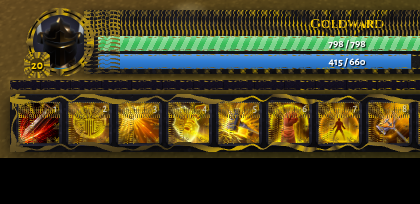
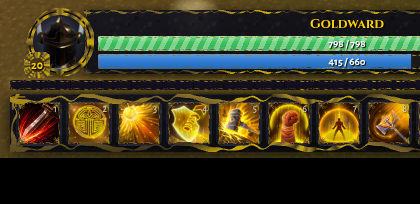
fix(ui): correct mask-repeat layer count, restore x-btn hover border
A frontend-seam-reviewer pass on the round-4 ornament changes caught two real
bugs. The 7 combined corner+edge mask-image blocks wrote mask-repeat as 5
CSS-source values, but var(--ornament-corner) itself expands to 4 layers, so
the true layer count is 8 (already matched by mask-position/mask-size); the
shorter mask-repeat list was getting cycled by the browser, giving 7 of 8
layers the wrong repeat mode. Confirmed live via getComputedStyle before and
after the fix. Also restores .x-btn's hover border, dead since its border
shorthand was dropped entirely this round instead of set to transparent like
every other converted button. Retakes the screenshots the mask-repeat bug
affected.

diff --git a/src/styles/hud.css b/src/styles/hud.css
@@ -899,8 +899,9 @@
     mask-image:
       var(--ornament-corner), var(--ornament-edge-h), var(--ornament-edge-h),
       var(--ornament-edge-v), var(--ornament-edge-v);
-    -webkit-mask-repeat: no-repeat, repeat-x, repeat-x, repeat-y, repeat-y;
-    mask-repeat: no-repeat, repeat-x, repeat-x, repeat-y, repeat-y;
+    -webkit-mask-repeat:
+      no-repeat, no-repeat, no-repeat, no-repeat, repeat-x, repeat-x, repeat-y, repeat-y;
+    mask-repeat: no-repeat, no-repeat, no-repeat, no-repeat, repeat-x, repeat-x, repeat-y, repeat-y;
     -webkit-mask-position:
       top left,
       top right,
@@ -1392,8 +1393,9 @@
     mask-image:
       var(--ornament-corner), var(--ornament-edge-h), var(--ornament-edge-h),
       var(--ornament-edge-v), var(--ornament-edge-v);
-    -webkit-mask-repeat: no-repeat, repeat-x, repeat-x, repeat-y, repeat-y;
-    mask-repeat: no-repeat, repeat-x, repeat-x, repeat-y, repeat-y;
+    -webkit-mask-repeat:
+      no-repeat, no-repeat, no-repeat, no-repeat, repeat-x, repeat-x, repeat-y, repeat-y;
+    mask-repeat: no-repeat, no-repeat, no-repeat, no-repeat, repeat-x, repeat-x, repeat-y, repeat-y;
     -webkit-mask-position:
       top left,
       top right,
@@ -1740,8 +1742,9 @@
     mask-image:
       var(--ornament-corner), var(--ornament-edge-h), var(--ornament-edge-h),
       var(--ornament-edge-v), var(--ornament-edge-v);
-    -webkit-mask-repeat: no-repeat, repeat-x, repeat-x, repeat-y, repeat-y;
-    mask-repeat: no-repeat, repeat-x, repeat-x, repeat-y, repeat-y;
+    -webkit-mask-repeat:
+      no-repeat, no-repeat, no-repeat, no-repeat, repeat-x, repeat-x, repeat-y, repeat-y;
+    mask-repeat: no-repeat, no-repeat, no-repeat, no-repeat, repeat-x, repeat-x, repeat-y, repeat-y;
     -webkit-mask-position:
       top left,
       top right,
@@ -1813,8 +1816,9 @@
     mask-image:
       var(--ornament-corner), var(--ornament-edge-h), var(--ornament-edge-h),
       var(--ornament-edge-v), var(--ornament-edge-v);
-    -webkit-mask-repeat: no-repeat, repeat-x, repeat-x, repeat-y, repeat-y;
-    mask-repeat: no-repeat, repeat-x, repeat-x, repeat-y, repeat-y;
+    -webkit-mask-repeat:
+      no-repeat, no-repeat, no-repeat, no-repeat, repeat-x, repeat-x, repeat-y, repeat-y;
+    mask-repeat: no-repeat, no-repeat, no-repeat, no-repeat, repeat-x, repeat-x, repeat-y, repeat-y;
     -webkit-mask-position:
       top left,
       top right,
@@ -1951,8 +1955,9 @@
     mask-image:
       var(--ornament-corner), var(--ornament-edge-h), var(--ornament-edge-h),
       var(--ornament-edge-v), var(--ornament-edge-v);
-    -webkit-mask-repeat: no-repeat, repeat-x, repeat-x, repeat-y, repeat-y;
-    mask-repeat: no-repeat, repeat-x, repeat-x, repeat-y, repeat-y;
+    -webkit-mask-repeat:
+      no-repeat, no-repeat, no-repeat, no-repeat, repeat-x, repeat-x, repeat-y, repeat-y;
+    mask-repeat: no-repeat, no-repeat, no-repeat, no-repeat, repeat-x, repeat-x, repeat-y, repeat-y;
     -webkit-mask-position:
       top left,
       top right,
@@ -2073,8 +2078,9 @@
     mask-image:
       var(--ornament-corner), var(--ornament-edge-h), var(--ornament-edge-h),
       var(--ornament-edge-v), var(--ornament-edge-v);
-    -webkit-mask-repeat: no-repeat, repeat-x, repeat-x, repeat-y, repeat-y;
-    mask-repeat: no-repeat, repeat-x, repeat-x, repeat-y, repeat-y;
+    -webkit-mask-repeat:
+      no-repeat, no-repeat, no-repeat, no-repeat, repeat-x, repeat-x, repeat-y, repeat-y;
+    mask-repeat: no-repeat, no-repeat, no-repeat, no-repeat, repeat-x, repeat-x, repeat-y, repeat-y;
     -webkit-mask-position:
       top left,
       top right,
@@ -2345,8 +2351,9 @@
     mask-image:
       var(--ornament-corner), var(--ornament-edge-h), var(--ornament-edge-h),
       var(--ornament-edge-v), var(--ornament-edge-v);
-    -webkit-mask-repeat: no-repeat, repeat-x, repeat-x, repeat-y, repeat-y;
-    mask-repeat: no-repeat, repeat-x, repeat-x, repeat-y, repeat-y;
+    -webkit-mask-repeat:
+      no-repeat, no-repeat, no-repeat, no-repeat, repeat-x, repeat-x, repeat-y, repeat-y;
+    mask-repeat: no-repeat, no-repeat, no-repeat, no-repeat, repeat-x, repeat-x, repeat-y, repeat-y;
     -webkit-mask-position:
       top left,
       top right,

diff --git a/src/styles/base.css b/src/styles/base.css
@@ -624,6 +624,9 @@
     cursor: var(--cursor-point);
     font-size: 14px;
     padding: 0 4px;
+    /* Transparent, not absent: :hover below recolors this same border; the
+       resting-state corner accent comes from ::after. */
+    border: 1px solid transparent;
     border-radius: 3px;
     background:
       var(--ornament-grain) repeat,
